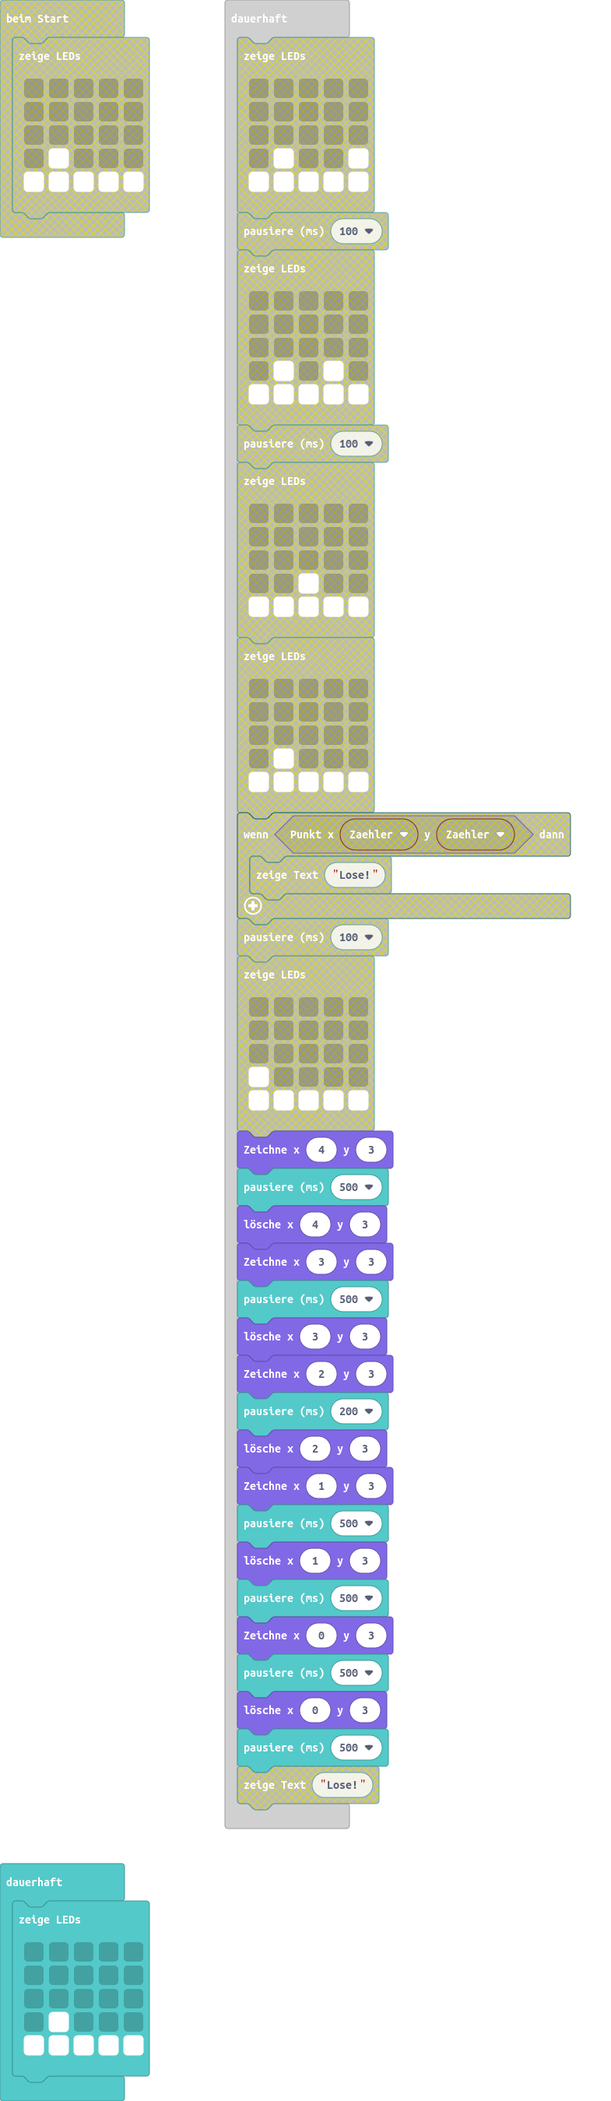
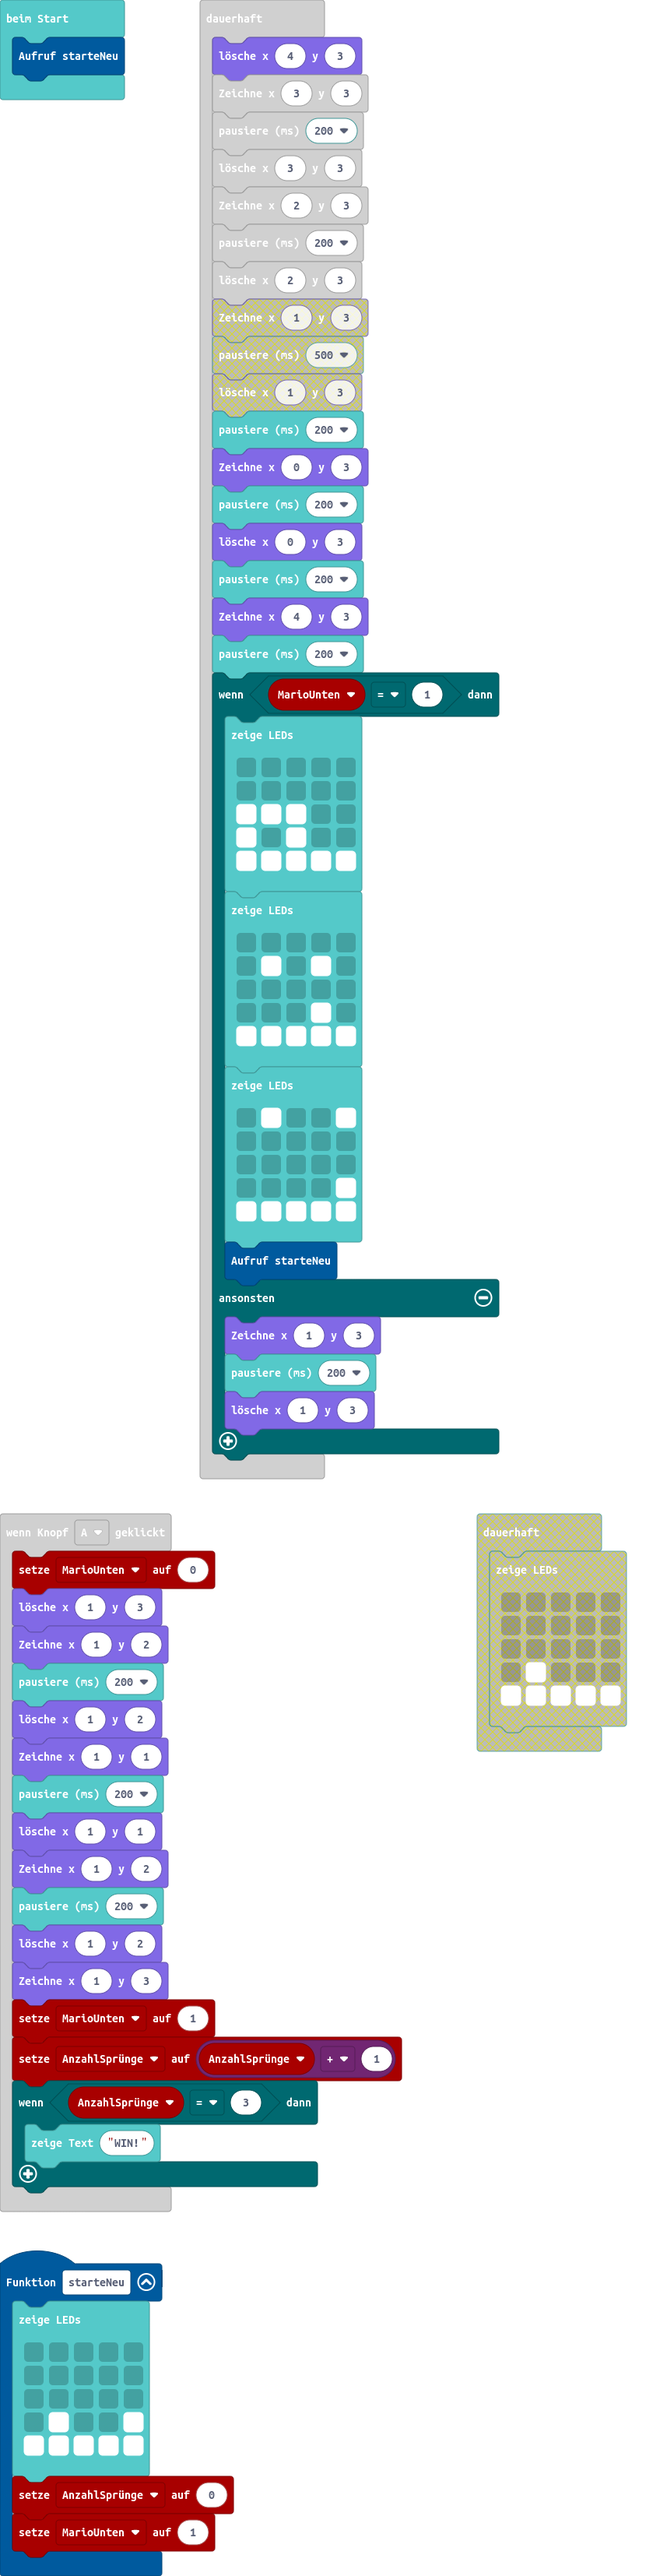
Aktualisiere pxt.json, main.blocks, main.ts, main.py

diff --git a/main.py b/main.py
@@ -1,4 +1,5 @@
-input.onButtonPressed(Button.A, function () {
+def on_button_pressed_a():
+    global MarioUnten, AnzahlSprünge
     MarioUnten = 0
     led.unplot(1, 3)
     led.plot(1, 2)
@@ -13,25 +14,28 @@ input.onButtonPressed(Button.A, function () {
     led.plot(1, 3)
     MarioUnten = 1
     AnzahlSprünge = AnzahlSprünge + 1
-    if (AnzahlSprünge == 3) {
-        basic.showString("WIN!")
-    }
-})
-function starteNeu () {
-    basic.showLeds(`
+    if AnzahlSprünge == 3:
+        basic.show_string("WIN!")
+input.on_button_pressed(Button.A, on_button_pressed_a)
+
+def starteNeu():
+    global AnzahlSprünge, MarioUnten
+    basic.show_leds("""
         . . . . .
         . . . . .
         . . . . .
-        . # . . #
+        . # . . .
         # # # # #
-        `)
+        """)
     AnzahlSprünge = 0
     MarioUnten = 1
-}
-let AnzahlSprünge = 0
-let MarioUnten = 0
+AnzahlSprünge = 0
+MarioUnten = 0
 starteNeu()
-basic.forever(function () {
+
+def on_forever():
+    led.plot(4, 3)
+    basic.pause(200)
     led.unplot(4, 3)
     led.plot(3, 3)
     basic.pause(200)
@@ -39,30 +43,30 @@ basic.forever(function () {
     led.plot(2, 3)
     basic.pause(200)
     led.unplot(2, 3)
-    if (MarioUnten == 1) {
-        basic.showLeds(`
+    if MarioUnten == 1:
+        basic.show_leds("""
             . . . . .
             . . . . .
             # # # . .
             # . # . .
             # # # # #
-            `)
-        basic.showLeds(`
+            """)
+        basic.show_leds("""
             . . . . .
             . # . # .
             . . . . .
             . . . # .
             # # # # #
-            `)
-        basic.showLeds(`
+            """)
+        basic.show_leds("""
             . # . . #
             . . . . .
             . . . . .
             . . . . #
             # # # # #
-            `)
+            """)
         starteNeu()
-    } else {
+    else:
         led.plot(1, 3)
         basic.pause(200)
         led.unplot(1, 3)
@@ -71,7 +75,4 @@ basic.forever(function () {
         basic.pause(200)
         led.unplot(0, 3)
         basic.pause(200)
-        led.plot(4, 3)
-        basic.pause(200)
-    }
-})
+basic.forever(on_forever)
